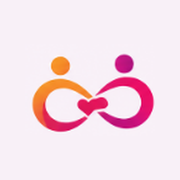
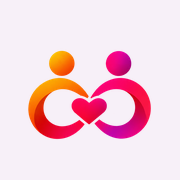
18 commit

Changed region(s): [[0.1389, 0.2778, 0.8611, 0.7778]]

diff --git a/src/components/AppLoader.tsx b/src/components/AppLoader.tsx
@@ -1,0 +1,30 @@
+'use client';
+
+// Full-screen branded loader. Uses the sharp /icons/icon-512.png (no stretching),
+// a soft pulse and a thin spinner ring so it never looks like a frozen blurry logo.
+export default function AppLoader({ label }: { label?: string }) {
+  return (
+    <div
+      role="status"
+      aria-live="polite"
+      className="flex flex-1 flex-col items-center justify-center gap-5 bg-[var(--bg)]"
+    >
+      <div className="relative h-28 w-28">
+        <span
+          className="absolute inset-0 rounded-full border-4 border-[var(--border)] border-t-[#da3036] animate-spin"
+          aria-hidden
+        />
+        <img
+          src="/icons/icon-512.png"
+          alt="Indian Shaadi Matrimony"
+          width={96}
+          height={96}
+          decoding="async"
+          className="absolute left-1/2 top-1/2 h-[76px] w-[76px] -translate-x-1/2 -translate-y-1/2 rounded-full object-contain"
+          style={{ animation: 'pulse 1.6s ease-in-out infinite' }}
+        />
+      </div>
+      <p className="text-[13px] font-bold text-[var(--muted)]">{label ?? 'Loading…'}</p>
+    </div>
+  );
+}
